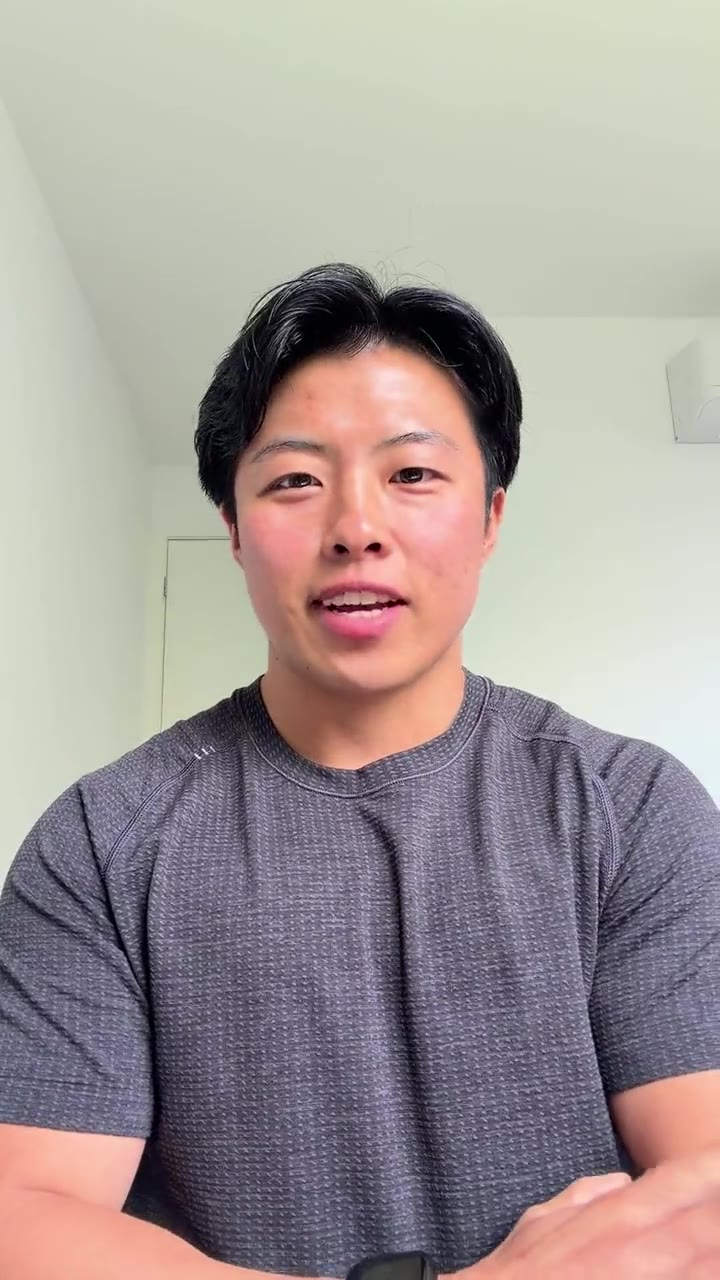
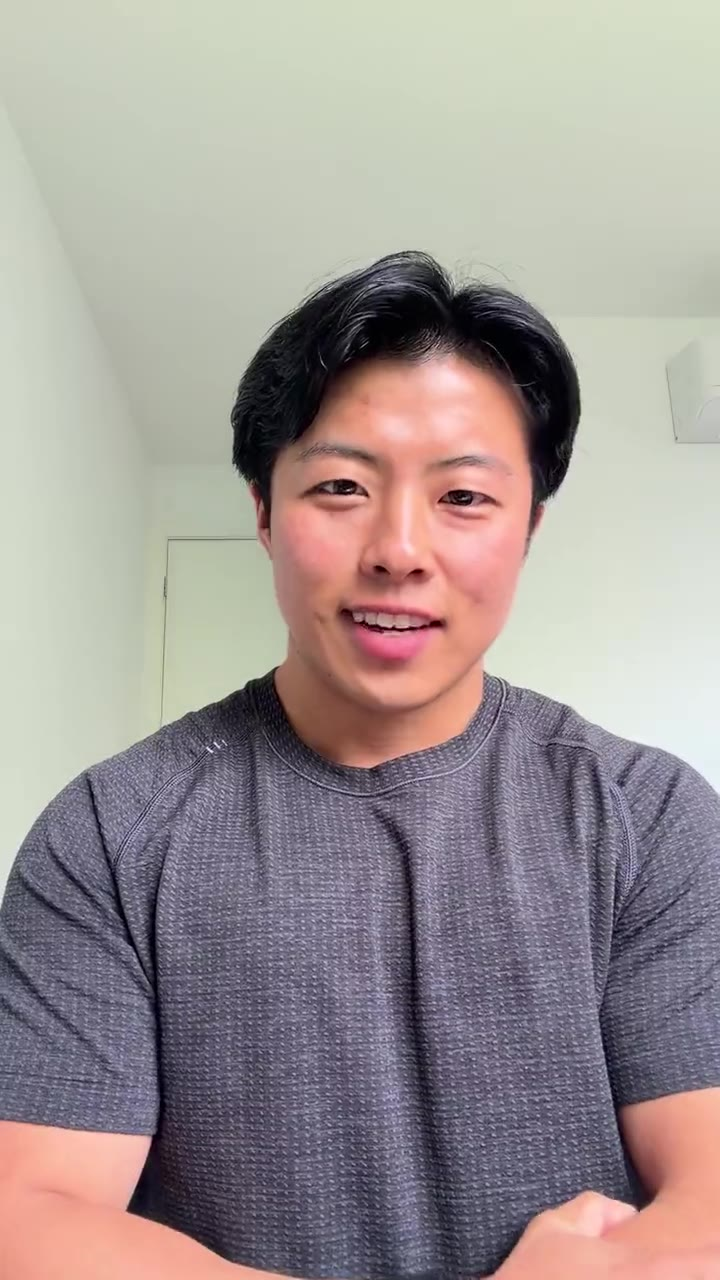
解説動画のサムネイルを撮り直し
DAY 1・DAY 2 とも、口が開いた場面がサムネイルになっていたので
0.3秒の場面に差し替えた（カメラを見ていて、目も開いている）。

Claude-Session: https://claude.ai/code/session_019nQkyFdW7YzgmzrJ7ypwv2

Changed region(s): [[0.0, 0.1875, 1.0, 1.0]]

diff --git a/index.html b/index.html
@@ -1999,7 +1999,7 @@ const BIZ = {
      見分けるために使う（設定画面のいちばん下に出る） */
   /* バージョン表示。ここを変えたら必ず `python3 tools/version.py` を実行して
      version.json をそろえる（アプリはこれを見て更新に気づく） */
-  build: "2026.11.16-26",
+  build: "2026.11.16-27",
   /* 適格請求書（インボイス）発行事業者の登録番号。
      お客様が一般の方だけなら登録は不要なので、当面は null のまま。
      登録したら "T1234567890123" の形で入れると、特商法の表記に行が出ます */
